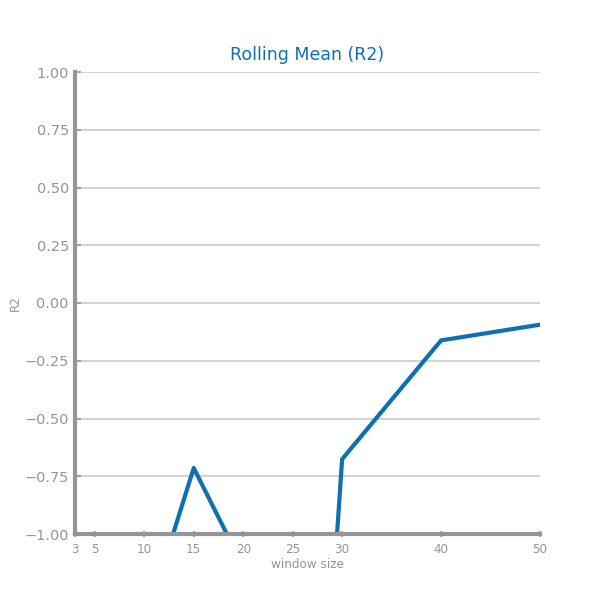
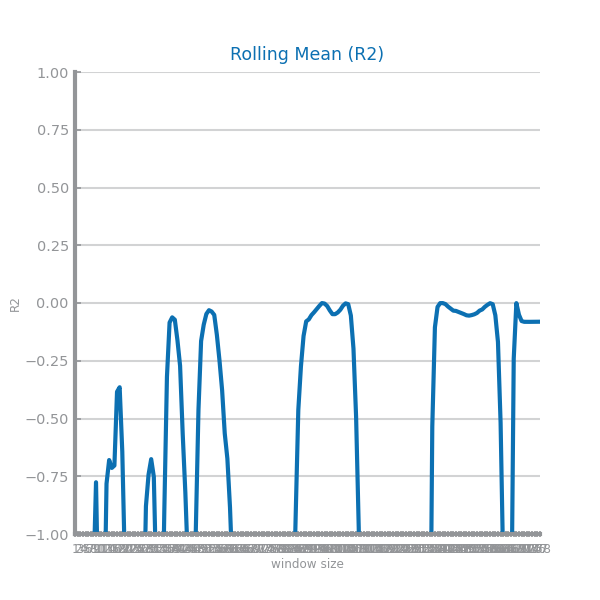
new rolling mean

Changed region(s): [[0.12, 0.48, 0.93, 0.93], [0.66, 0.63, 0.69, 0.66], [0.63, 0.66, 0.66, 0.69]]

diff --git a/forecasting_health/forecasting/rolling_mean.py b/forecasting_health/forecasting/rolling_mean.py
@@ -49,7 +49,8 @@ class RollingMeanRegressor(RegressorMixin):
 
 
 def rolling_mean_study(train: Series, test: Series, measure: str = "R2"):
-    win_size = (3, 5, 10, 15, 20, 25, 30, 40, 50)
+    win_size = [i for i in range(1,179)]
+    print(win_size)
     flag = measure == "R2" or measure == "MAPE"
     best_model = None
     best_params: dict = {"name": "Rolling Mean", "metric": measure, "params": ()}
@@ -57,6 +58,7 @@ def rolling_mean_study(train: Series, test: Series, measure: str = "R2"):
 
     yvalues = []
     for w in win_size:
+        print(w)
         pred = RollingMeanRegressor(win=w)
         pred.fit(train)
         prd_tst = pred.predict(test)
